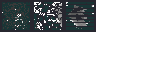
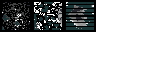
fixing textures

Changed region(s): [[0.0, 0.0, 0.625, 0.5]]

diff --git a/sprites/chunk_sprites.py b/sprites/chunk_sprites.py
@@ -26,7 +26,7 @@ class BlockSprite(pygame.sprite.Sprite):
         self.chunk = chunk
         self.blocks = self.chunk.blocks
 
-        images = [pygame.transform.scale(BLOCK_SPRITESHEET.image_at((SCALE * block.block_type, 0, SCALE, SCALE), -1),
+        images = [pygame.transform.scale(BLOCK_SPRITESHEET.image_at((SCALE * block.block_type, 0, SCALE, SCALE)),
                                          (SCALE, SCALE), ) for block in self.blocks]
 
         rects = [image.get_rect() for image in images]
